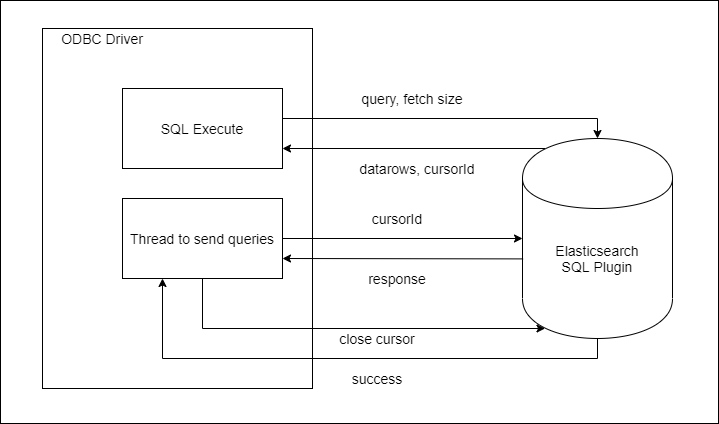
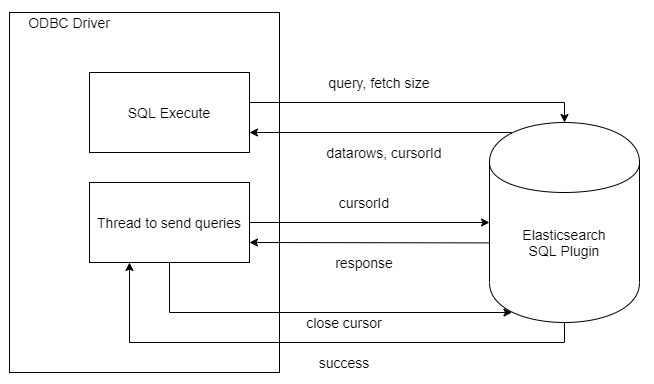
image align center

diff --git a/docs/dev/Pagination.md b/docs/dev/Pagination.md
@@ -6,7 +6,9 @@ Elasticsearch ODBC Driver supports forward-only cursor. This document illustrate
 For information on how the pagination is supported on Elasticsearch server, check [Opendistro SQL Cursor (Pagination) Support](https://github.com/opendistro-for-elasticsearch/sql/blob/master/docs/dev/Pagination.md).
 
 ## Data Flow
+<p align="center"> 
 <img src="img/data_flow.png" width="50%">
+</p>
 
 ## Detailed Design
 <img src="img/async_result_retrieval.png">
